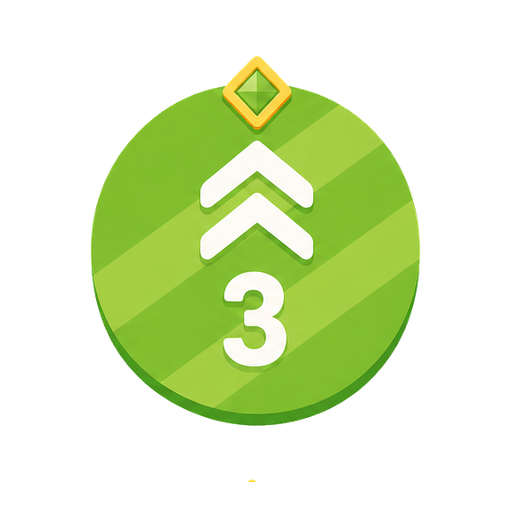
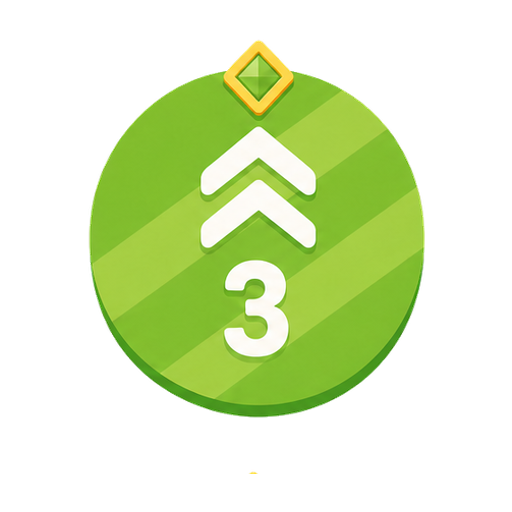
Centre and size-normalise all badge art
The widget renders each badge into a fixed circular slot with
`object-fit: contain`, so the browser frames the art by its canvas rather than
by the artwork inside it. Every badge PNG shipped a different framing, and the
canvas offsets went straight through to the screen:

- `badge-first-classroom-login-v1.png` sat 2.5% left of its canvas centre and
  `badge-ready-early-v1.png` sat 2.1% right, so side by side in the achievement
  trail they leaned in opposite directions.
- Vertical offsets split into two clusters, +2.4% and -2.5%.
- Artwork filled between 79.7% and 85.2% of the canvas, so badges rendered at
  visibly different sizes.
- `badge-on-time-finish.png` was the outlier: a 1254x1254 opaque RGB square
  (a disc painted on a flat grey backdrop) with no transparent margin at all,
  so it rendered edge to edge while its peers rendered at ~83%.

Reframe all sixteen badges onto one canonical canvas: 512x512 RGBA, artwork
alpha bounding box centred, longest edge spanning 85% of the canvas. The
on-time-finish backdrop is flood-filled from the border so only the connected
outside is removed, with the anti-aliased rim feathered and un-mixed, leaving
6 backdrop-coloured pixels out of 149,237 opaque ones.

Artwork is unchanged beyond repositioning and scaling. Encoding stays lossless,
so the fifteen resampled badges each gained some bytes; the directory still
shrinks 3.68 MB to 3.39 MB because the oversized on-time-finish square is gone.
[…]

Changed region(s): [[0.1562, 0.0625, 0.8438, 0.8438]]

diff --git a/apps/web/src/lib/badge-art-framing.test.ts b/apps/web/src/lib/badge-art-framing.test.ts
@@ -1,0 +1,184 @@
+import assert from "node:assert/strict";
+import { readdirSync, readFileSync } from "node:fs";
+import { join } from "node:path";
+import test from "node:test";
+import { inflateSync } from "node:zlib";
+
+/**
+ * Badge art is rendered by the widget into a fixed circular slot with
+ * `object-fit: contain`, so the browser frames each badge by its *canvas*, not
+ * by the artwork inside it. Any badge whose artwork is off-centre in its own
+ * canvas, or that fills a different share of it, renders visibly misaligned or
+ * mis-sized next to its neighbours in the achievement trail.
+ *
+ * These tests pin the framing contract every badge PNG must satisfy so new art
+ * cannot reintroduce that drift.
+ */
+
+const BADGE_DIR = join(process.cwd(), "public", "assets", "badges");
+
+/** Canonical badge canvas: square, and the same for every badge. */
+const CANVAS = 512;
+/** Share of the canvas the artwork's longest edge must occupy. */
+const TARGET_FILL = 0.85;
+/** Rounding slack, in canvas pixels, for the artwork's centre point. */
+const CENTRE_TOLERANCE_PX = 1;
+/**
+ * Slack, in canvas pixels, for the fill target. Slightly looser than centring:
+ * resampling artwork to the target size can soften its outermost column or row
+ * below the alpha threshold, costing a pixel off the measured bounding box.
+ */
+const FILL_TOLERANCE_PX = 2;
+/** Alpha above which a pixel counts as artwork rather than empty margin. */
+const ALPHA_THRESHOLD = 8;
+
+type DecodedAlpha = {
+  width: number;
+  height: number;
+  alpha: Uint8Array;
+};
+
+/**
+ * Minimal PNG reader: enough to recover the alpha channel of a non-interlaced
+ * 8-bit image. Kept local to the test so verifying art needs no image
+ * dependency in the app.
+ */
+function decodePngAlpha(buffer: Buffer): DecodedAlpha {
+  let offset = 8;
+  let width = 0;
+  let height = 0;
+  let bitDepth = 0;
+  let colorType = 0;
+  let interlace = 0;
+  const idat: Buffer[] = [];
+
+  while (offset < buffer.length) {
+    const length = buffer.readUInt32BE(offset);
+    const type = buffer.toString("ascii", offset + 4, offset + 8);
+    const data = buffer.subarray(offset + 8, offset + 8 + length);
+    if (type === "IHDR") {
+      width = data.readUInt32BE(0);
+      height = data.readUInt32BE(4);
+      bitDepth = data[8];
+      colorType = data[9];
+      interlace = data[12];
+    } else if (type === "IDAT") {
+      idat.push(data);
+    } else if (type === "IEND") {
+      break;
+    }
+    offset += 12 + length;
+  }
+
+  assert.equal(bitDepth, 8, "badge art must be 8 bits per channel");
+  assert.equal(interlace, 0, "badge art must not be interlaced");
+  assert.equal(colorType, 6, "badge art must be RGBA (colour type 6)");
+
+  const channels = 4;
+  const raw = inflateSync(Buffer.concat(idat));
+  const stride = width * channels;
+  const pixels = Buffer.alloc(height * stride);
+
+  let read = 0;
+  for (let y = 0; y < height; y++) {
+    const filter = raw[read];
+    read += 1;
+    const line = raw.subarray(read, read + stride);
+    read += stride;
+    const row = pixels.subarray(y * stride, (y + 1) * stride);
+    const prior = y > 0 ? pixels.subarray((y - 1) * stride, y * stride) : null;
+
+    for (let i = 0; i < stride; i++) {
+      const left = i >= channels ? row[i - channels] : 0;
+      const up = prior ? prior[i] : 0;
+      const upLeft = prior && i >= channels ? prior[i - channels] : 0;
+      let value = line[i];
+      if (filter === 1) {
+        value += left;
+      } else if (filter === 2) {
+        value += up;
+      } else if (filter === 3) {
+        value += (left + up) >> 1;
+      } else if (filter === 4) {
+        const predictor = left + up - upLeft;
+        const dLeft = Math.abs(predictor - left);
+        const dUp = Math.abs(predictor - up);
+        const dUpLeft = Math.abs(predictor - upLeft);
+        value +=
+          dLeft <= dUp && dLeft <= dUpLeft ? left : dUp <= dUpLeft ? up : upLeft;
+      }
+      row[i] = value & 0xff;
+    }
+  }
+
+  const alpha = new Uint8Array(width * height);
+  for (let i = 0; i < width * height; i++) {
+    alpha[i] = pixels[i * channels + 3];
+  }
+  return { width, height, alpha };
+}
+
+/** Bounding box of the visible artwork within the canvas. */
+function artworkBounds({ width, height, alpha }: DecodedAlpha) {
+  let minX = width;
+  let minY = height;
+  let maxX = -1;
+  let maxY = -1;
+  for (let y = 0; y < height; y++) {
+    for (let x = 0; x < width; x++) {
+      if (alpha[y * width + x] > ALPHA_THRESHOLD) {
+        if (x < minX) minX = x;
+        if (x > maxX) maxX = x;
+        if (y < minY) minY = y;
+        if (y > maxY) maxY = y;
+      }
+    }
+  }
+  assert.ok(maxX >= 0, "badge art must contain visible pixels");
+  return { minX, minY, maxX, maxY };
+}
+
+const badgeFiles = readdirSync(BADGE_DIR)
+  .filter((name) => name.endsWith(".png"))
+  .sort();
+
+test("there is badge art to check", () => {
+  assert.ok(badgeFiles.length > 0, `no badge PNGs found in ${BADGE_DIR}`);
+});
+
+for (const file of badgeFiles) {
+  test(`${file} is framed on the canonical badge canvas`, () => {
+    const image = decodePngAlpha(readFileSync(join(BADGE_DIR, file)));
+    assert.equal(image.width, CANVAS, `${file} canvas width`);
+    assert.equal(image.height, CANVAS, `${file} canvas height`);
+  });
+
+  test(`${file} artwork is centred in its canvas`, () => {
+    const image = decodePngAlpha(readFileSync(join(BADGE_DIR, file)));
+    const bounds = artworkBounds(image);
+    const offsetX = (bounds.minX + bounds.maxX) / 2 - (image.width - 1) / 2;
+    const offsetY = (bounds.minY + bounds.maxY) / 2 - (image.height - 1) / 2;
+    assert.ok(
+      Math.abs(offsetX) <= CENTRE_TOLERANCE_PX,
+      `${file} artwork is ${offsetX.toFixed(1)}px off centre horizontally`,
+    );
+    assert.ok(
+      Math.abs(offsetY) <= CENTRE_TOLERANCE_PX,
+      `${file} artwork is ${offsetY.toFixed(1)}px off centre vertically`,
+    );
+  });
+
+  test(`${file} artwork fills the same share of the canvas as its peers`, () => {
+    const image = decodePngAlpha(readFileSync(join(BADGE_DIR, file)));
+    const bounds = artworkBounds(image);
+    const longestEdge = Math.max(
+      bounds.maxX - bounds.minX + 1,
+      bounds.maxY - bounds.minY + 1,
+    );
+    const expected = CANVAS * TARGET_FILL;
+    assert.ok(
+      Math.abs(longestEdge - expected) <= FILL_TOLERANCE_PX,
+      `${file} artwork spans ${longestEdge}px, expected ${expected}px (±${FILL_TOLERANCE_PX})`,
+    );
+  });
+}

diff --git a/docs/dev-workflow.md b/docs/dev-workflow.md
@@ -228,6 +228,21 @@ apps/web/public/assets/badges/  — achievement art
   resized on demand, and downscale before shipping anything to the widget.
 - Asset changes ship in their own PR — never bundled with game logic.
 
+#### Badge framing contract
+
+The widget drops each badge into a fixed circular slot with `object-fit: contain`, so the
+browser frames the art by its **canvas**, not by the artwork inside it. Art that sits
+off-centre in its own canvas, or that fills a different share of it, renders visibly
+misaligned or mis-sized next to its neighbours in the achievement trail. Every file in
+`apps/web/public/assets/badges/` must therefore be:
+
+- a 512×512 RGBA PNG (transparent margin, never an opaque backdrop square),
+- centred — the artwork's alpha bounding box centred on the canvas, and
+- uniformly sized — the bounding box's longest edge spanning 85% of the canvas.
+
+`apps/web/src/lib/badge-art-framing.test.ts` enforces all three, so new badge art fails CI
+until it is framed to match.
+
 ### Where assets live, and when that changes
 
 In the repo through M2 — free, no infrastructure, and art deploys atomically with the code that
